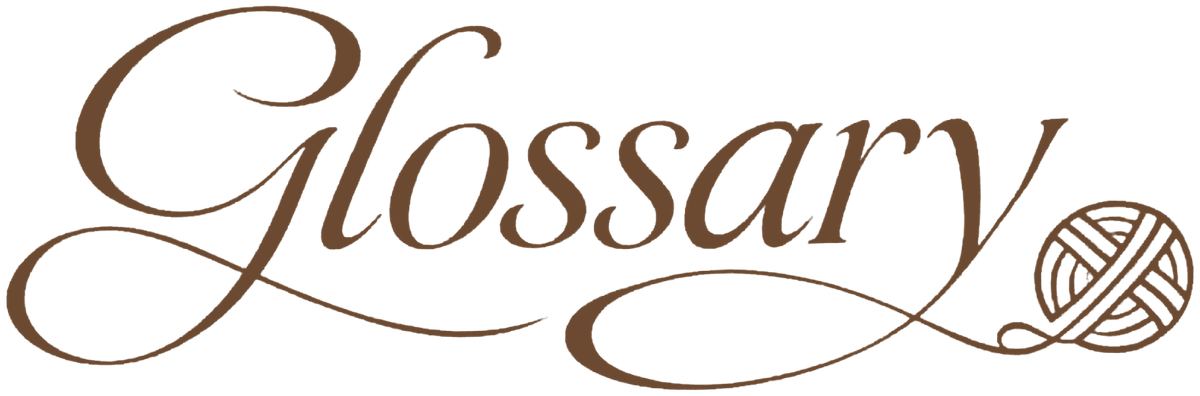
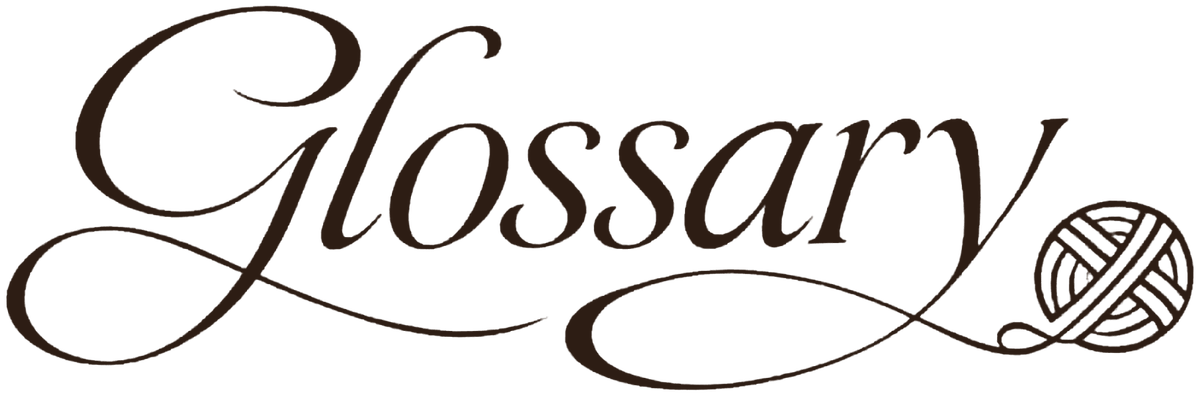
Glossary and My Patterns wordmarks alike: the same ink colour and letter height (web and phones); off the top edge on phones; no bottom tab bar on the phone glossary

diff --git a/components/glossary/glossary.css b/components/glossary/glossary.css
@@ -251,11 +251,22 @@ button.glf-icon:hover{background:rgba(110,83,80,.08);color:var(--ink)}
 
 /* the Glossary wordmark (an image now, Kim): its height by place */
 .gl-title{line-height:0}
-.gl-logo{display:block;width:auto;height:52px}
+.gl-logo{display:block;width:auto;height:43px}
 .gl-phone .gl-logo{height:46px}
-.glf .gl-logo{height:42px}
+.glf .gl-logo{height:33px}
 
 /* phones: the Glossary wordmark in the bar, the same height as 나의 도안집's My Patterns (40px); the count under */
 .gl-bar-logo{margin:0;line-height:0;justify-self:center}
-.gl-bar-logo img{display:block;width:auto;height:40px}
+.gl-bar-logo img{display:block;width:auto;height:33px}
 .gl-phone-count{margin:14px 0 14px;text-align:right}
+/* Kim: the Glossary wordmark the same size and colour as My Patterns. Its image is cropped tight (the letters
+   fill 97% of its height) where My Patterns' has room around (80%), so it stands at 0.825 of My Patterns'
+   height for the same letters: 33px by its 40px on phones, 43px by its 52px on the web. Ink #2D1D14, as My
+   Patterns' (public/pic/glossary.png was recoloured). */
+
+/* phones (Kim): no bottom tab bar on the glossary (as on 나의 도안집); the bar's wordmark off the top edge */
+@media (max-width:767.98px){
+  body:has(.gl-phone) .m-nav{display:none}
+  .gl-phone{padding-bottom:calc(env(safe-area-inset-bottom,0px) + 32px)}
+  .gl-phone .mt-bar-top{height:auto;min-height:44px;padding:20px 0 8px}
+}

diff --git a/components/mobile/mine-mobile.css b/components/mobile/mine-mobile.css
@@ -173,3 +173,5 @@
 /* Kim: no shelf boards (only their room between the rows stays), and the storage note in the middle */
 body .mm-shelf{height:0;background:none;box-shadow:none}
 body .mm-note{text-align:center}
+/* the bar's My Patterns off the top edge (Kim), as the glossary's */
+@media (max-width:767.98px){ body .mm .mt-bar-top{height:auto;min-height:44px;padding:14px 0 8px} }
